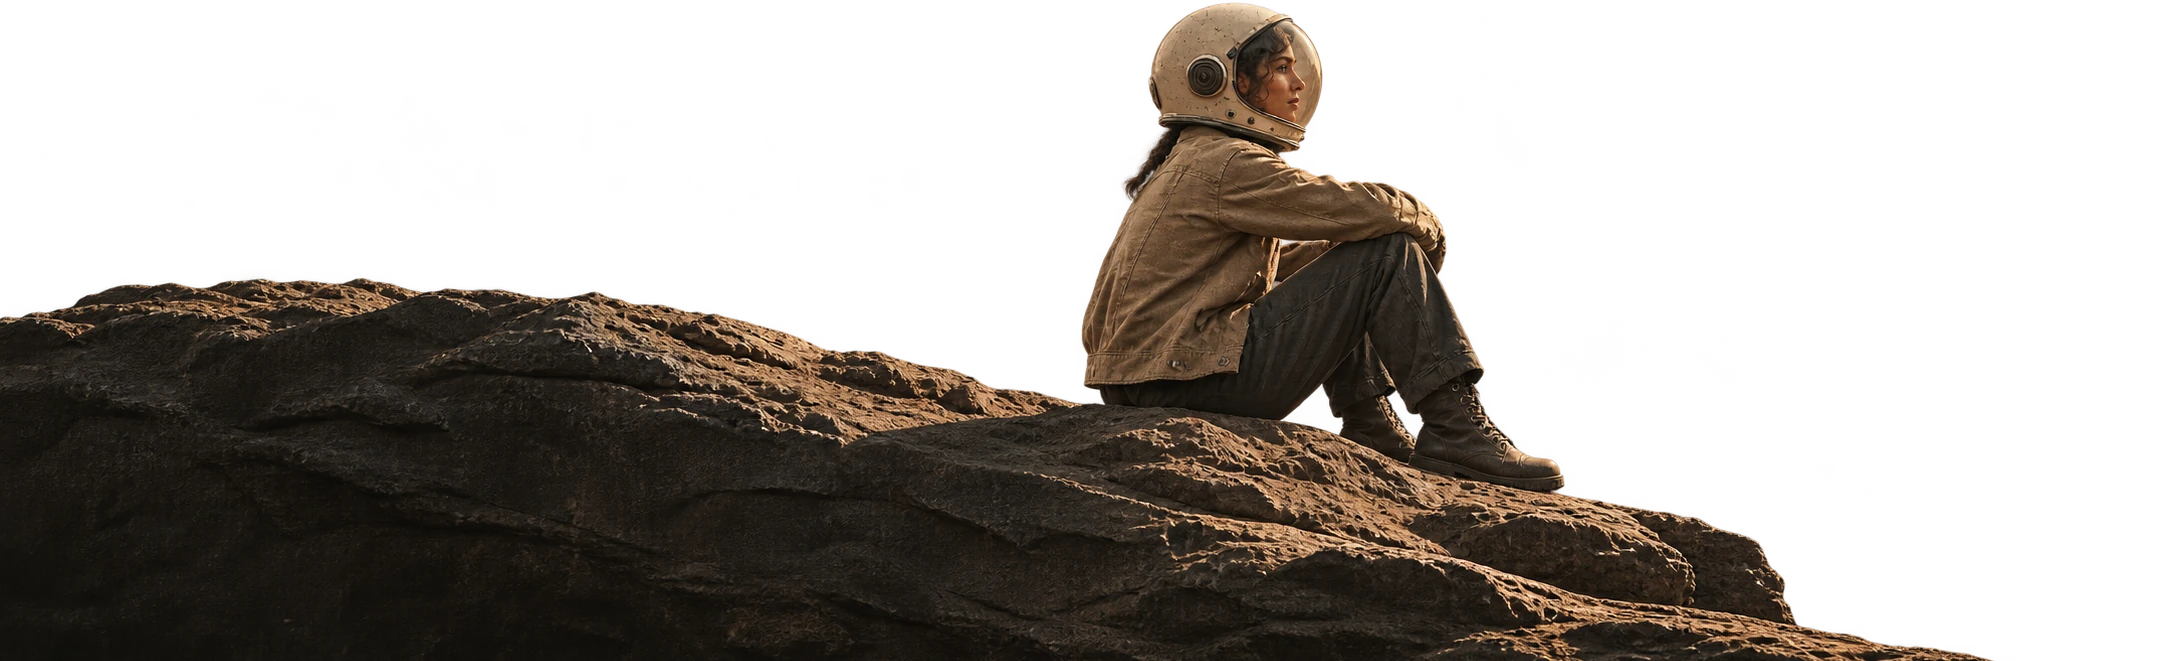
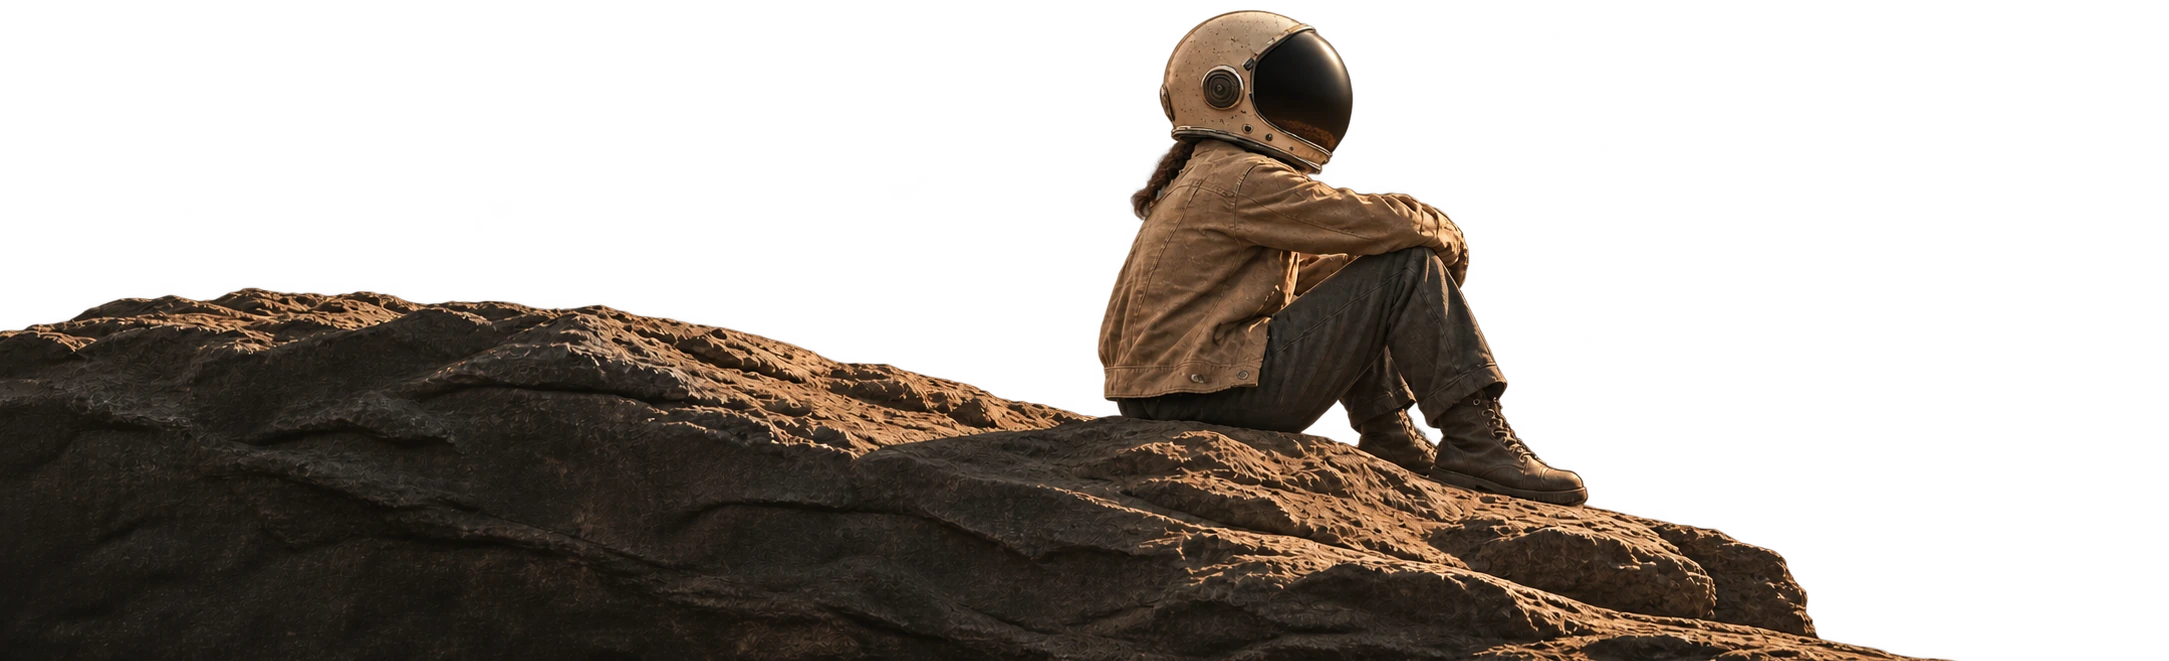
Close the explorer's helmet with an opaque smoked visor

diff --git a/public/assets/explorer/README.md b/public/assets/explorer/README.md
@@ -6,7 +6,7 @@ The hero is not a screenshot of the approved design. Its layers are independentl
 - `ReadingNookHero.css` lays out the full-screen cream sky and its fine paper grain. The masthead uses Bodoni Moda and the tagline uses Fraunces.
 - `RotatingMoon.tsx`: WebGL analytic sphere projection of the local NASA lunar map, white/ivory lighting and a 48-second 360-degree rotation. The geographic surface moves under fixed lighting; this is not CSS rotation of a flat picture.
 - `RotatingMoon.css`: viewport-dependent moon position and round silhouette, plus a static fallback.
-- `astronaut.webp` is a 2170 × 661 transparent foreground. A helmeted woman sits facing right on a sunlit rock ledge, with her arms resting on her raised knees.
+- `astronaut.webp` is a 2169 × 661 transparent foreground. A woman wearing a cream astronaut helmet with an opaque mirrored visor sits facing right on a sunlit rock ledge, her arms resting on her raised knees.
 
 The reference is an art-direction target, not a claim of pixel-identical rendering on every viewport. The layout adapts for narrow and ultrawide screens without a centered portrait card.
 
